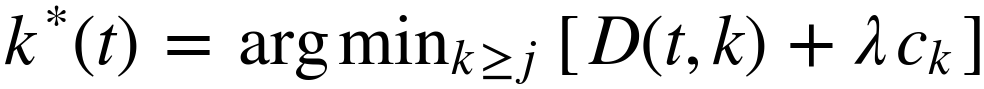
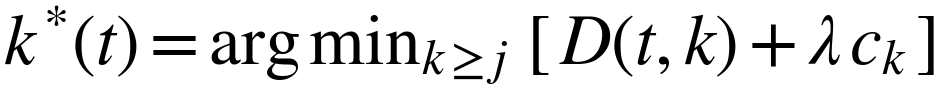
Set the formulations the way CVPR sets them
The seam-repair module was a definition given inline in running text, three
nested functions and a modular index in a single dollar-sign span. It is now a
numbered display equation and the symbols are defined after it.

arg min and arg max take their limits underneath, with the domain stated: the
argument is over exits at or below the split depth, which the equations left to
the prose. The seam relation used the word 'seam' as a variable; it is now a
symbol.

The training objective was a display equation with no number, so the sentence
that weights its three terms could not point at it. Numbered and referenced, as
is the repair module. Every numbered equation in the paper is now referenced at
least once.

The reportlab math renderer does not know \ge, only \geq -- it prints the
parser error and carries on with an unset equation, which is how a stale PDF got
built once tonight already.

Changed region(s): [[0.0, 0.0674, 0.8038, 0.9438], [0.8348, 0.1573, 1.0, 0.8315], [0.371, 0.1798, 0.4328, 0.2472]]

diff --git a/paper/main.tex b/paper/main.tex
@@ -622,7 +622,7 @@ more than the error it adds. Compute falls and error grows as $\lambda$ grows,
 neither of them turning back, so one value of $\lambda$ puts the frame exactly on
 its budget and we find that value by bisection. The rule each tile follows is
 \begin{equation}
-k^{*}_t(\lambda) \;=\; \arg\min_k \; \bigl[\, D_{t,k} + \lambda\, c_k \,\bigr],
+k^{*}_t(\lambda) \;=\; \operatorname*{arg\,min}_{k \ge j} \; \bigl[\, D_{t,k} + \lambda\, c_k \,\bigr],
 \label{eq:lagrangian}
 \end{equation}
 with the minimum taken over $k \ge j$. We call $k^{*}_t(\lambda)$ the choice of
@@ -659,7 +659,7 @@ already holds, the feature at the split point, the decoded latent $\hat{y}$, the
 entropy model's scales and the quality index. For each tile $t$ it emits a vector
 of logits $z_t$, one entry per exit, and the tile takes
 \begin{equation}
-\hat{k}_t \;=\; \arg\max_k \;\bigl[\, \log \mathrm{softmax}(z_t)_k
+\hat{k}_t \;=\; \operatorname*{arg\,max}_{k \ge j} \;\bigl[\, \log \mathrm{softmax}(z_t)_k
                                        - \beta\, c_k \,\bigr].
 \label{eq:router}
 \end{equation}
@@ -793,6 +793,7 @@ All exits are decoded every step and the objective is
 \mathcal{L} \;=\; \mathcal{L}_{\mathrm{RD}}
    \;+\; w_a\,\mathcal{L}_{\mathrm{anchor}}
    \;+\; w_d\,\mathcal{L}_{\mathrm{distill}},
+\label{eq:loss}
 \end{equation}
 where
 $\mathcal{L}_{\mathrm{RD}} = \lambda_{\mathrm{rd}} \sum_k \alpha_k \mathrm{MSE}_k / \sum_k \alpha_k + \mathrm{bpp}$
@@ -847,7 +848,7 @@ That fraction tells us which pixels are affected and not how badly, and it turns
 out to be the wrong predictor of the penalty. We swept the split depth, which
 sweeps $b$ from 12 to 0 with $b{=}0$ as an exact zero-seam control, and measured
 \begin{equation}
-\text{seam} \;\propto\; b^{\alpha}, \qquad \alpha \approx 2,
+\Delta_{\mathrm{seam}} \;\propto\; b^{\alpha}, \qquad \alpha \approx 2,
 \label{eq:contam}
 \end{equation}
 with $\alpha = 2.38$ at $q0$ falling to $1.93$ at $q63$ and $r = 0.98$--$0.995$ in
@@ -932,13 +933,18 @@ What a standard codec does about a partition boundary is deblock it, with a
 filter applied after reconstruction~\cite{hevc,vvc} (Fig.~\ref{fig:seam_gate}). The tile lattice is known
 exactly at training and at inference, so ours can be \emph{told} where to look
 instead of having to infer it. The module is
-$\mathrm{Rep}(f) = f + G[x \bmod P,\, y \bmod P]\cdot
-\mathrm{PW}(\mathrm{WSiLU}(\mathrm{DW}_{3\times3}(f)))$, with $\mathrm{PW}$ a
+\begin{equation}
+\mathrm{Rep}(f) \;=\; f \;+\; G[x \bmod P,\, y \bmod P]\cdot
+\mathrm{PW}\bigl(\mathrm{WSiLU}(\mathrm{DW}_{3\times3}(f))\bigr),
+\label{eq:repair}
+\end{equation}
+Here $\mathrm{PW}$ is a
 pointwise convolution, $\mathrm{DW}_{3\times3}$ a depthwise one,
 $\mathrm{WSiLU}$ the weighted SiLU of the DCVC line~\cite{dcvcrt}, $G$ a
 $P{\times}P$ gate shared over channels, $P$ the tile pitch in feature samples,
 and $G$ initialised at $\exp(-d/\tau)$ in the distance $d$ to the nearest tile
-boundary and $\tau$ a fixed decay length. The whole pass costs $0.95\%$ of the
+boundary and $\tau$ a fixed decay length. The gate is what makes~(\ref{eq:repair}) a lattice filter rather than a general
+one: it is indexed by position within a tile, not by position in the frame. The whole pass costs $0.95\%$ of the
 decode.
 
 It does not earn that. Splitting the per-pixel error by distance from the nearest
@@ -1039,7 +1045,8 @@ seconds and joules rather than arithmetic.
 
 \paragraph{Setup.} We fine-tune the decoder on $512{\times}512$ crops from
 OpenImages~\cite{openimages} with the encoder frozen ($\max|\Delta| = 0$ is
-asserted every run). One $\lambda_{\mathrm{rd}}$ is drawn per sample from a
+asserted every run). The three terms of~(\ref{eq:loss}) are weighted once and never tuned per exit.
+One $\lambda_{\mathrm{rd}}$ is drawn per sample from a
 log-spaced range covering all 64 quality indices, so a single set of weights
 covers the whole rate range. We evaluate on one intra frame from each of the \NumSeq\ sequences of the common
 test set (CTC: UVG~\cite{uvg}, MCL-JCV~\cite{mcljcv} and HEVC classes B, C, D

diff --git a/scripts/build_pdf.py b/scripts/build_pdf.py
@@ -1036,7 +1036,7 @@ def content(colw, fullw):
         r"grows as λ grows, neither of them turning back, so one value of λ "
         r"puts the frame exactly on its budget and we find that value by "
         r"bisection. The rule each tile follows is")
-    eq(r"k^{*}(t) = \mathrm{arg\,min}_{k}\ \left[\, D(t,k) + \lambda\, c_{k} \,\right]")
+    eq(r"k^{*}(t) = \mathrm{arg\,min}_{k \geq j}\ \left[\, D(t,k) + \lambda\, c_{k} \,\right]")
     par(r"with the minimum taken over k ≥ j. We call k*(t) the choice of the "
         r"<i>Lagrangian oracle</i>: it is made with the true error of every "
         r"exit in hand, which no decoder has, but it is optimal only within the "
@@ -1073,7 +1073,7 @@ def content(colw, fullw):
         r"decoded latent y-hat, the entropy model's scales and the quality "
         r"index. For each tile t it emits a vector of logits z_t, one entry per "
         r"exit, and the tile takes")
-    eq(r"\hat{k}_{t} = \mathrm{arg\,max}_{k}\ \left[\, \log\,\mathrm{softmax}(z_{t})_{k} - \beta\, c_{k} \,\right]")
+    eq(r"\hat{k}_{t} = \mathrm{arg\,max}_{k \geq j}\ \left[\, \log\,\mathrm{softmax}(z_{t})_{k} - \beta\, c_{k} \,\right]")
     par(r"The first term is the head's score for exit k, on a log scale. The "
         r"second is the price on compute that λ carries in the Lagrangian: "
         r"raising β takes more away from the deep exits than from the shallow "
@@ -1246,7 +1246,7 @@ def content(colw, fullw):
         r"and it turns out to be the wrong predictor of the penalty. We swept "
         r"the split depth, which sweeps b from 12 to 0 with b=0 as an exact "
         r"zero-seam control, and measured")
-    eq(r"\mathrm{seam} \;\propto\; b^{\alpha}, \qquad \alpha \approx 2")
+    eq(r"\Delta_{\mathrm{seam}} \;\propto\; b^{\alpha}, \qquad \alpha \approx 2")
     par(r"with α = 2.38 at q0, 2.22 at q32 and 1.93 at q63, and r = 0.98–0.995 "
         r"in log-log. Fitted with one free scale, the area fraction is wrong "
         r"by 160–264% where the power law is wrong by 12–22%. Fixing the "
